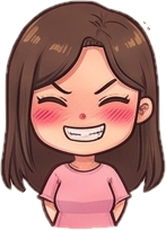
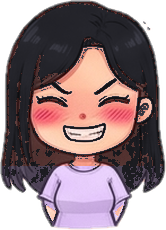
Sửa lỗi sau kiểm thử bản web + điện thoại (v1.2.0)
- Khung lựa chọn hội thoại (lớp 10) nuốt mọi cú chạm giữa màn hình -> không bấm được
  Tập 1/Tập 2 trong bảng chọn tập, chỗ chạm giữa bản đồ/mini-game. mouse_filter IGNORE
  + test_input_blockers.gd.
- Dòng báo thái độ có nền riêng, không chồng chữ; tối đa 4 dòng.
- Ô biểu cảm không tràn khỏi màn hình; ô biểu cảm Trâm chỉnh đúng tóc đen/áo tím.
- Mini-game ghép lệnh không bị thanh HUD che; bảng "nhịp đập trong bóng tối" không tràn.
- Lời nghĩ thầm không còn "((" (+ test); ngôi sao Trâm tin tưởng đúng cỡ.
- Nhãn tương tác không đè ô nhiệm vụ; câu dẫn trạm xe buýt khớp ảnh nền.
- Màn hình chính ghi cả Tập 2; công cụ --snap để soi bằng mắt cả tập.

diff --git a/memory/text1.md b/memory/text1.md
@@ -145,3 +145,34 @@ check.ps1 tự chơi trọn cả Tập 1 lẫn Tập 2 → ALL CHECKS PASSED.
 - Cân bằng: kết “Áo Khoác” chỉ 1/250 lượt → đổi điều kiện (khoác áo thật) + ưu tiên trước kết ghen.
 - Bảng thông tin mini-game Nlong che mặt mèo → dời sang phải; Nlong góc màn hình ẩn khi chơi mini-game.
 - Lọc trung vị cửa sổ lớn trên ảnh 2752px quá chậm (>10 phút) → đổi sang lọc Gauss.
+
+## Phiên 8 — 2026-11-06: cài secret Vercel cho CI
+- Người dùng chạy `tools\setup_ci_secrets.ps1` → 3 secret đã có, chạy lại CI của PR #1: phần kiểm tra xanh, **deploy lỗi**
+  `You defined "--token", but its contents are invalid`.
+- Nguyên nhân: token lưu trên GitHub dài **1 ký tự** — Ctrl+V trong ô `Read-Host -AsSecureString` của Windows PowerShell 5.1
+  ghi ký tự điều khiển ^V thay vì dán. (VERCEL_ORG_ID / VERCEL_PROJECT_ID không bị ảnh hưởng: lấy từ file.)
+- Sửa (commit 8879341 trên nhánh tap-2/co-ban): script đọc token từ **clipboard**, kiểm tra `^[A-Za-z0-9_]{16,}$` rồi mới cài,
+  sau đó xoá clipboard; CI thêm bước kiểm tra định dạng token, báo lỗi tiếng Việt kèm độ dài (không in token).
+- Chờ người dùng: copy token trên vercel.com → chạy lại script → báo để chạy lại CI lấy link xem thử → merge PR #1.
+- Người dùng chép token vào `tokenvercel.md` (KHÔNG commit — file untracked) → Claude kiểm tra định dạng (60 ký tự) và cài
+  VERCEL_TOKEN theo yêu cầu. CI chạy lại: deploy OK, bot gắn link xem thử vào PR #1. Link preview trả 302 = Vercel bảo vệ
+  bản xem thử (phải đăng nhập Vercel mới mở được).
+
+## Phiên 9 — 2026-11-06: kiểm thử lại toàn bộ (bản web + điện thoại) và sửa lỗi
+Cách kiểm: check.ps1 6 bước; tự chơi trọn 2 tập có ĐỒ HOẠ thật + chụp mỗi 40 frame (`--snap`) rồi duyệt bằng mắt;
+đóng gói web, cho Chrome headless tự chơi trọn Tập 2 trên bản web; giả lập điện thoại ngang có cảm ứng, chạm từng bước.
+**Lỗi tìm được + đã sửa**
+- NGHIÊM TRỌNG: khung lựa chọn của hộp thoại (lớp 10) luôn "hiện" và nhận chuột → nuốt mọi cú chạm ở giữa màn
+  (290–990 × 196–496): không bấm được Tập 1/Tập 2 trong bảng chọn tập, chỗ chạm giữa bản đồ / mini-game. → mouse_filter IGNORE
+  + test mới `test_input_blockers.gd` (rà mọi lớp phủ của Dialogue/Hud ở 6 màn).
+- Dòng báo thái độ ("Trâm sẽ nhớ…") chồng chữ, khó đọc → mỗi dòng 1 ô nền, tối đa 4 dòng.
+- Ô biểu cảm tràn khỏi mép phải khi nhân vật đứng sát mép → tự đổi bên / kéo vào trong.
+- Ô biểu cảm Trâm vẽ SAI người (tóc nâu, áo hồng) → chỉnh màu tóc đen + áo tím (ảnh gốc giữ ở build/tram_inset_bak).
+- Mini-game ghép lệnh: thanh Hiểu bài che dòng đầu khung code → dời xuống. Mini-game bóng tối: bảng tràn mép dưới → dời lên.
+- Lời nghĩ thầm hiện "((" ở 3 câu → sửa dữ liệu + test chặn.
+- Ngôi sao "Trâm tin tưởng" ở màn kết thúc to gấp đôi, đè chữ (draw_star nhận bán kính).
+- Nhãn "E · Đọc menu" đè ô nhiệm vụ / nút Menu → đặt xuống dưới.
+- Trạm xe buýt dùng nền mặt tiền Gờ 23 → câu dẫn nói rõ trạm ngay trước cửa quán.
+- Màn hình chính vẫn ghi chỉ "Tập 1" → ghi cả Tập 2. Phiên bản 1.2.0.
+**Còn lại (không sửa được ở đây)**: Chrome headless (SwiftShader) in nhiều cảnh báo WebGL "bindBuffer… different target" —
+game vẫn chạy trọn tập; cần thử trên điện thoại thật xem có vệt/thiếu hình không.

diff --git a/CLAUDE.md b/CLAUDE.md
@@ -22,6 +22,7 @@ Người dùng là người mới làm game: giải thích ngắn gọn bằng *
 - Deploy web: `tools\deploy_web.ps1 [-Prod]` (Vercel). Bình thường để CI làm: PR → preview, merge `main` → production.
 - **Git/CI:** không commit thẳng `main` — tạo nhánh `fix/...`, `tap-N/...` rồi `gh pr create`. Quy trình: `docs/CICD.md`.
   Workflow: `.github/workflows/ci.yml` (Linux, `$env:GODOT`), `release.yml` (tag `vX.Y.Z` = `config/version`).
+- Soi bằng mắt cả tập: `Godot --path game -- --autoplay --episode=2 --snap=C:/devgame2D/build/snap --snap-every=40` (ảnh JPG mỗi 40 frame).
 - Điện thoại: thử chế độ cảm ứng bằng `-Extra "--touch"`, màn dọc `-Resolution 422x844` (tools\screenshot.ps1).
 
 ## Kiến trúc
@@ -47,5 +48,7 @@ Người dùng là người mới làm game: giải thích ngắn gọn bằng *
 - Coroutine: muốn `await` thì hàm phải trả về signal/Tween (vd `Story.show_card()` trả Tween → `await tw.finished`).
 - Asset đã import kiểm tra bằng `ResourceLoader.exists()`; `.json` vào bản export nhờ `include_filter="*.json"`.
 - Viewport 1280×720, stretch `canvas_items`, filter linear (tranh vẽ, không phải pixel art), renderer GL Compatibility.
+- Control trong autoload (Dialogue/Hud, lớp cao) luôn hiện mà không phải nút → `mouse_filter = IGNORE`, nếu không sẽ nuốt
+  cú chạm cả màn bên dưới (test `test_input_blockers.gd`).
 - Không dùng emoji / ký tự hiếm (♥ ★ ♪) trong chữ — font web không có; vẽ bằng `scripts/ui/shapes.gd` / `icon.gd`.
 - Không sửa `tools/godot/`, `game/.godot/` (sinh tự động).
